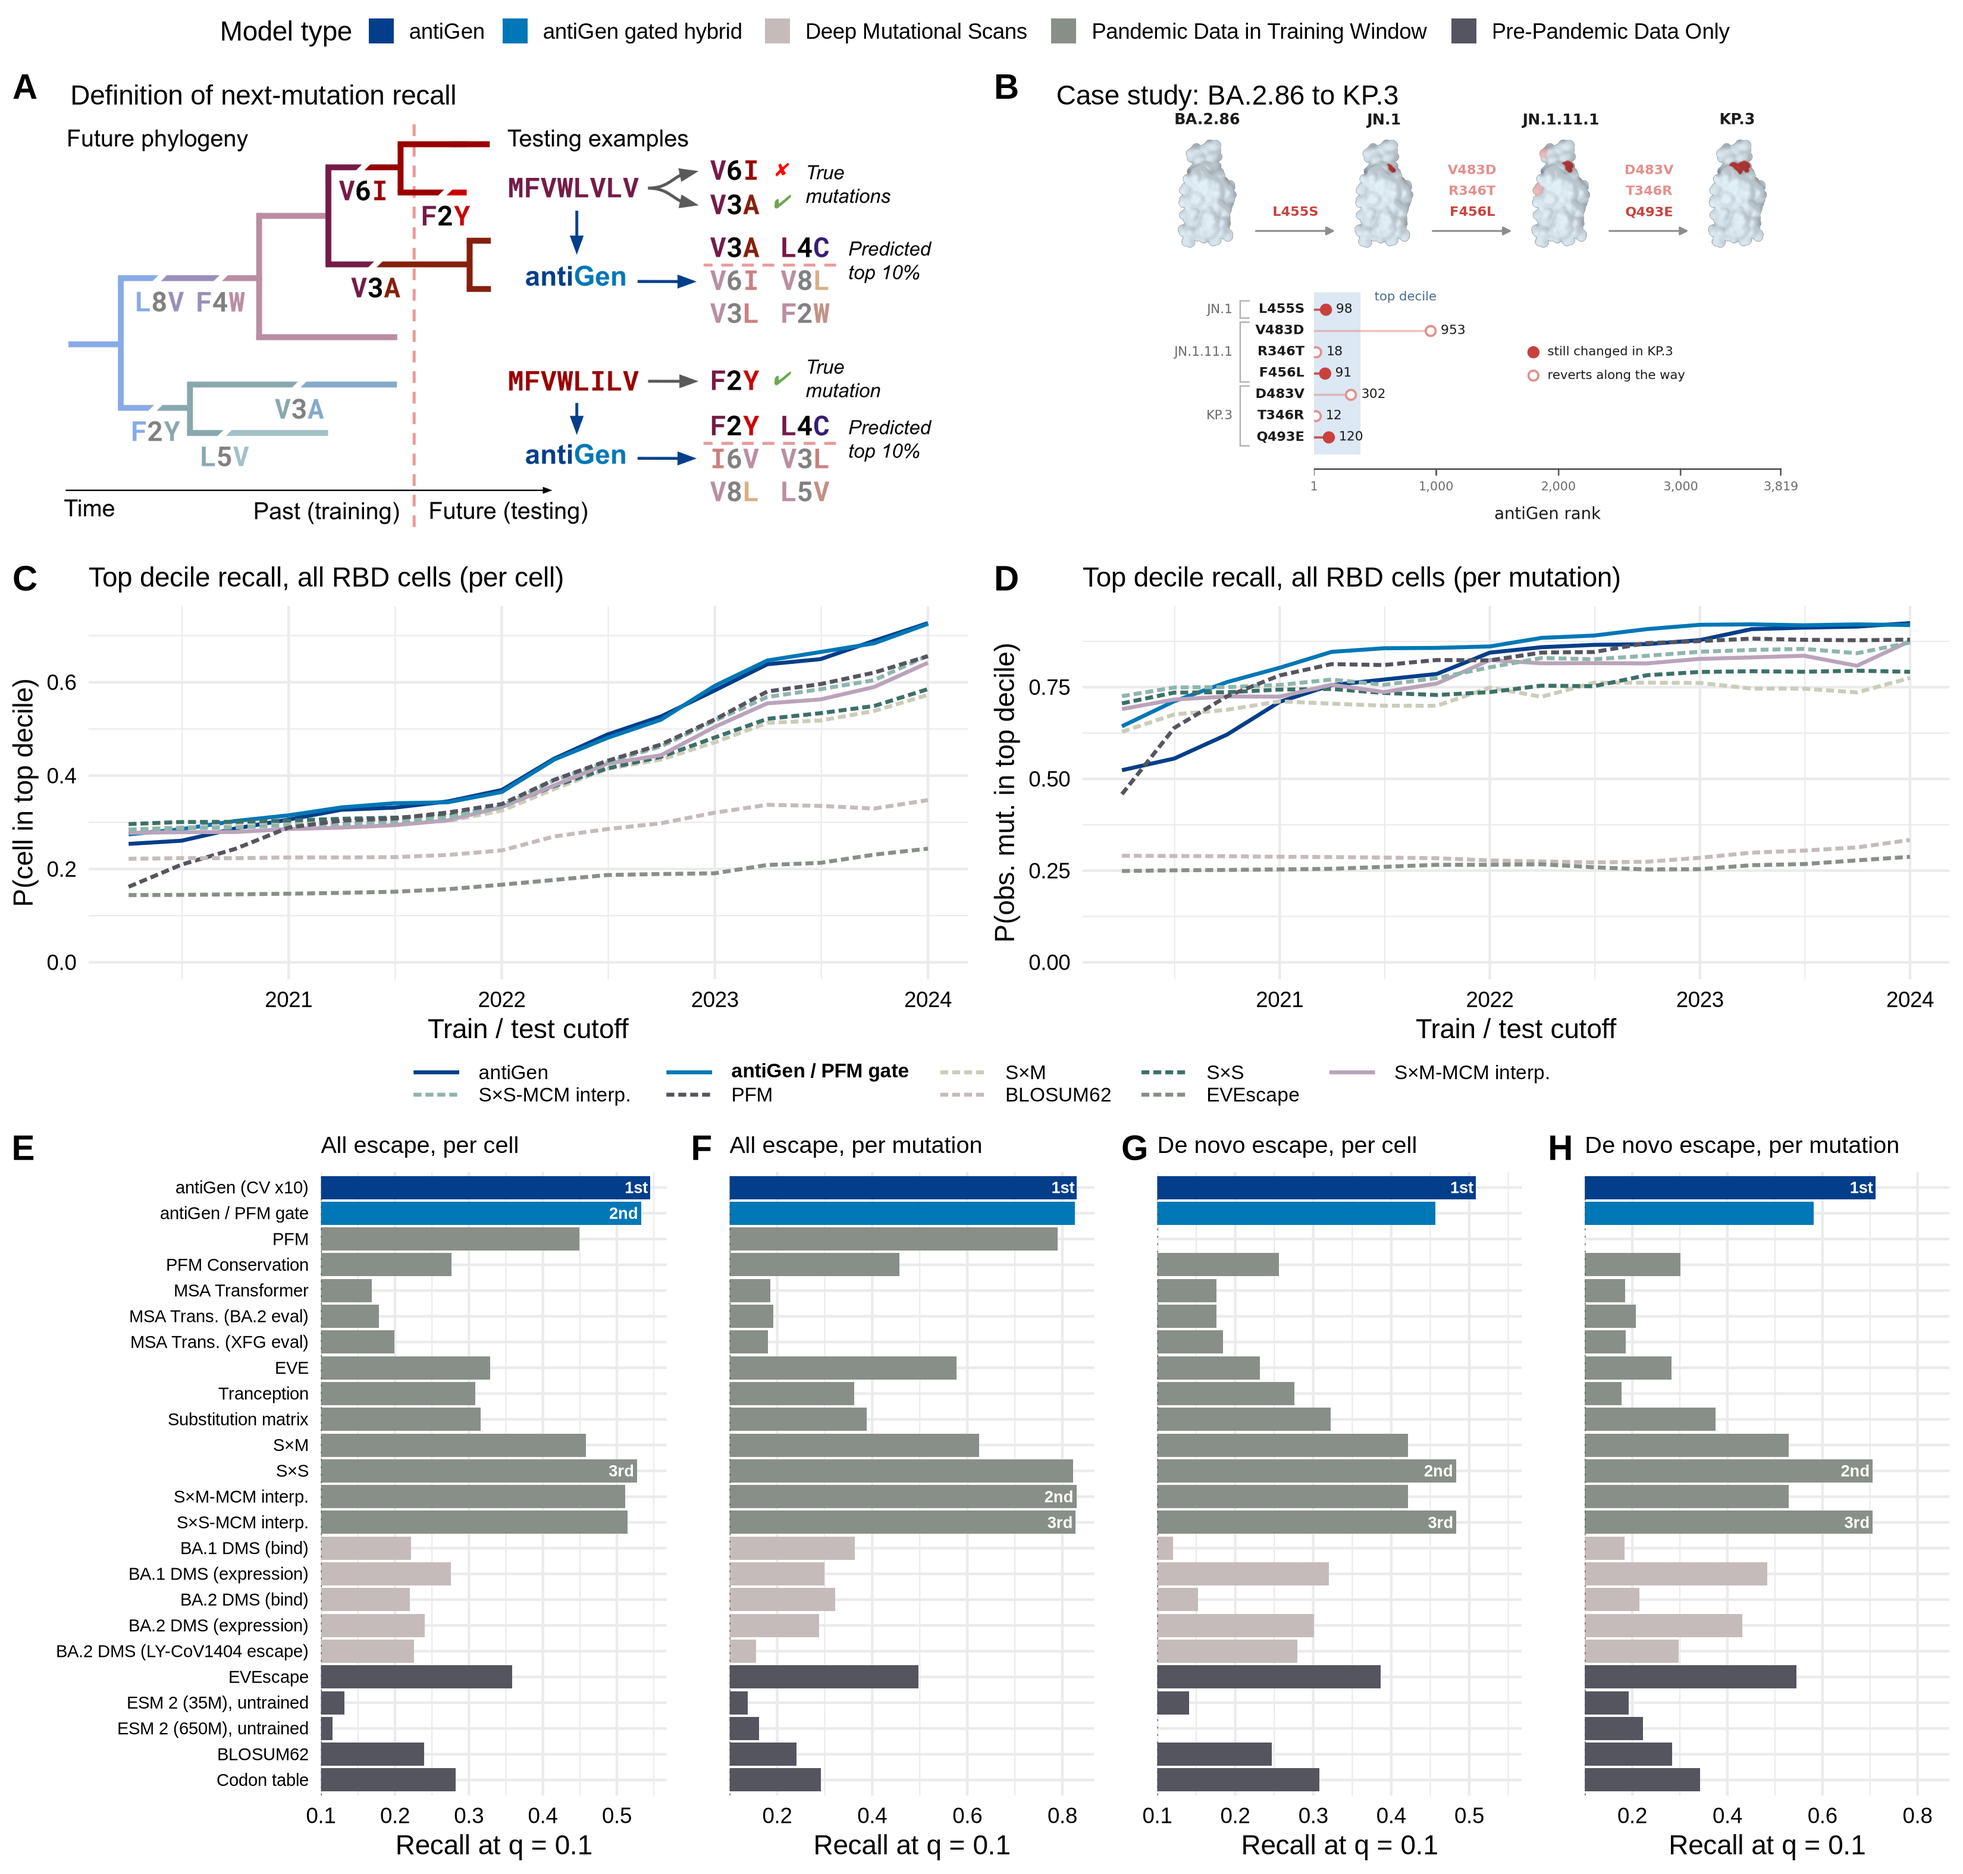
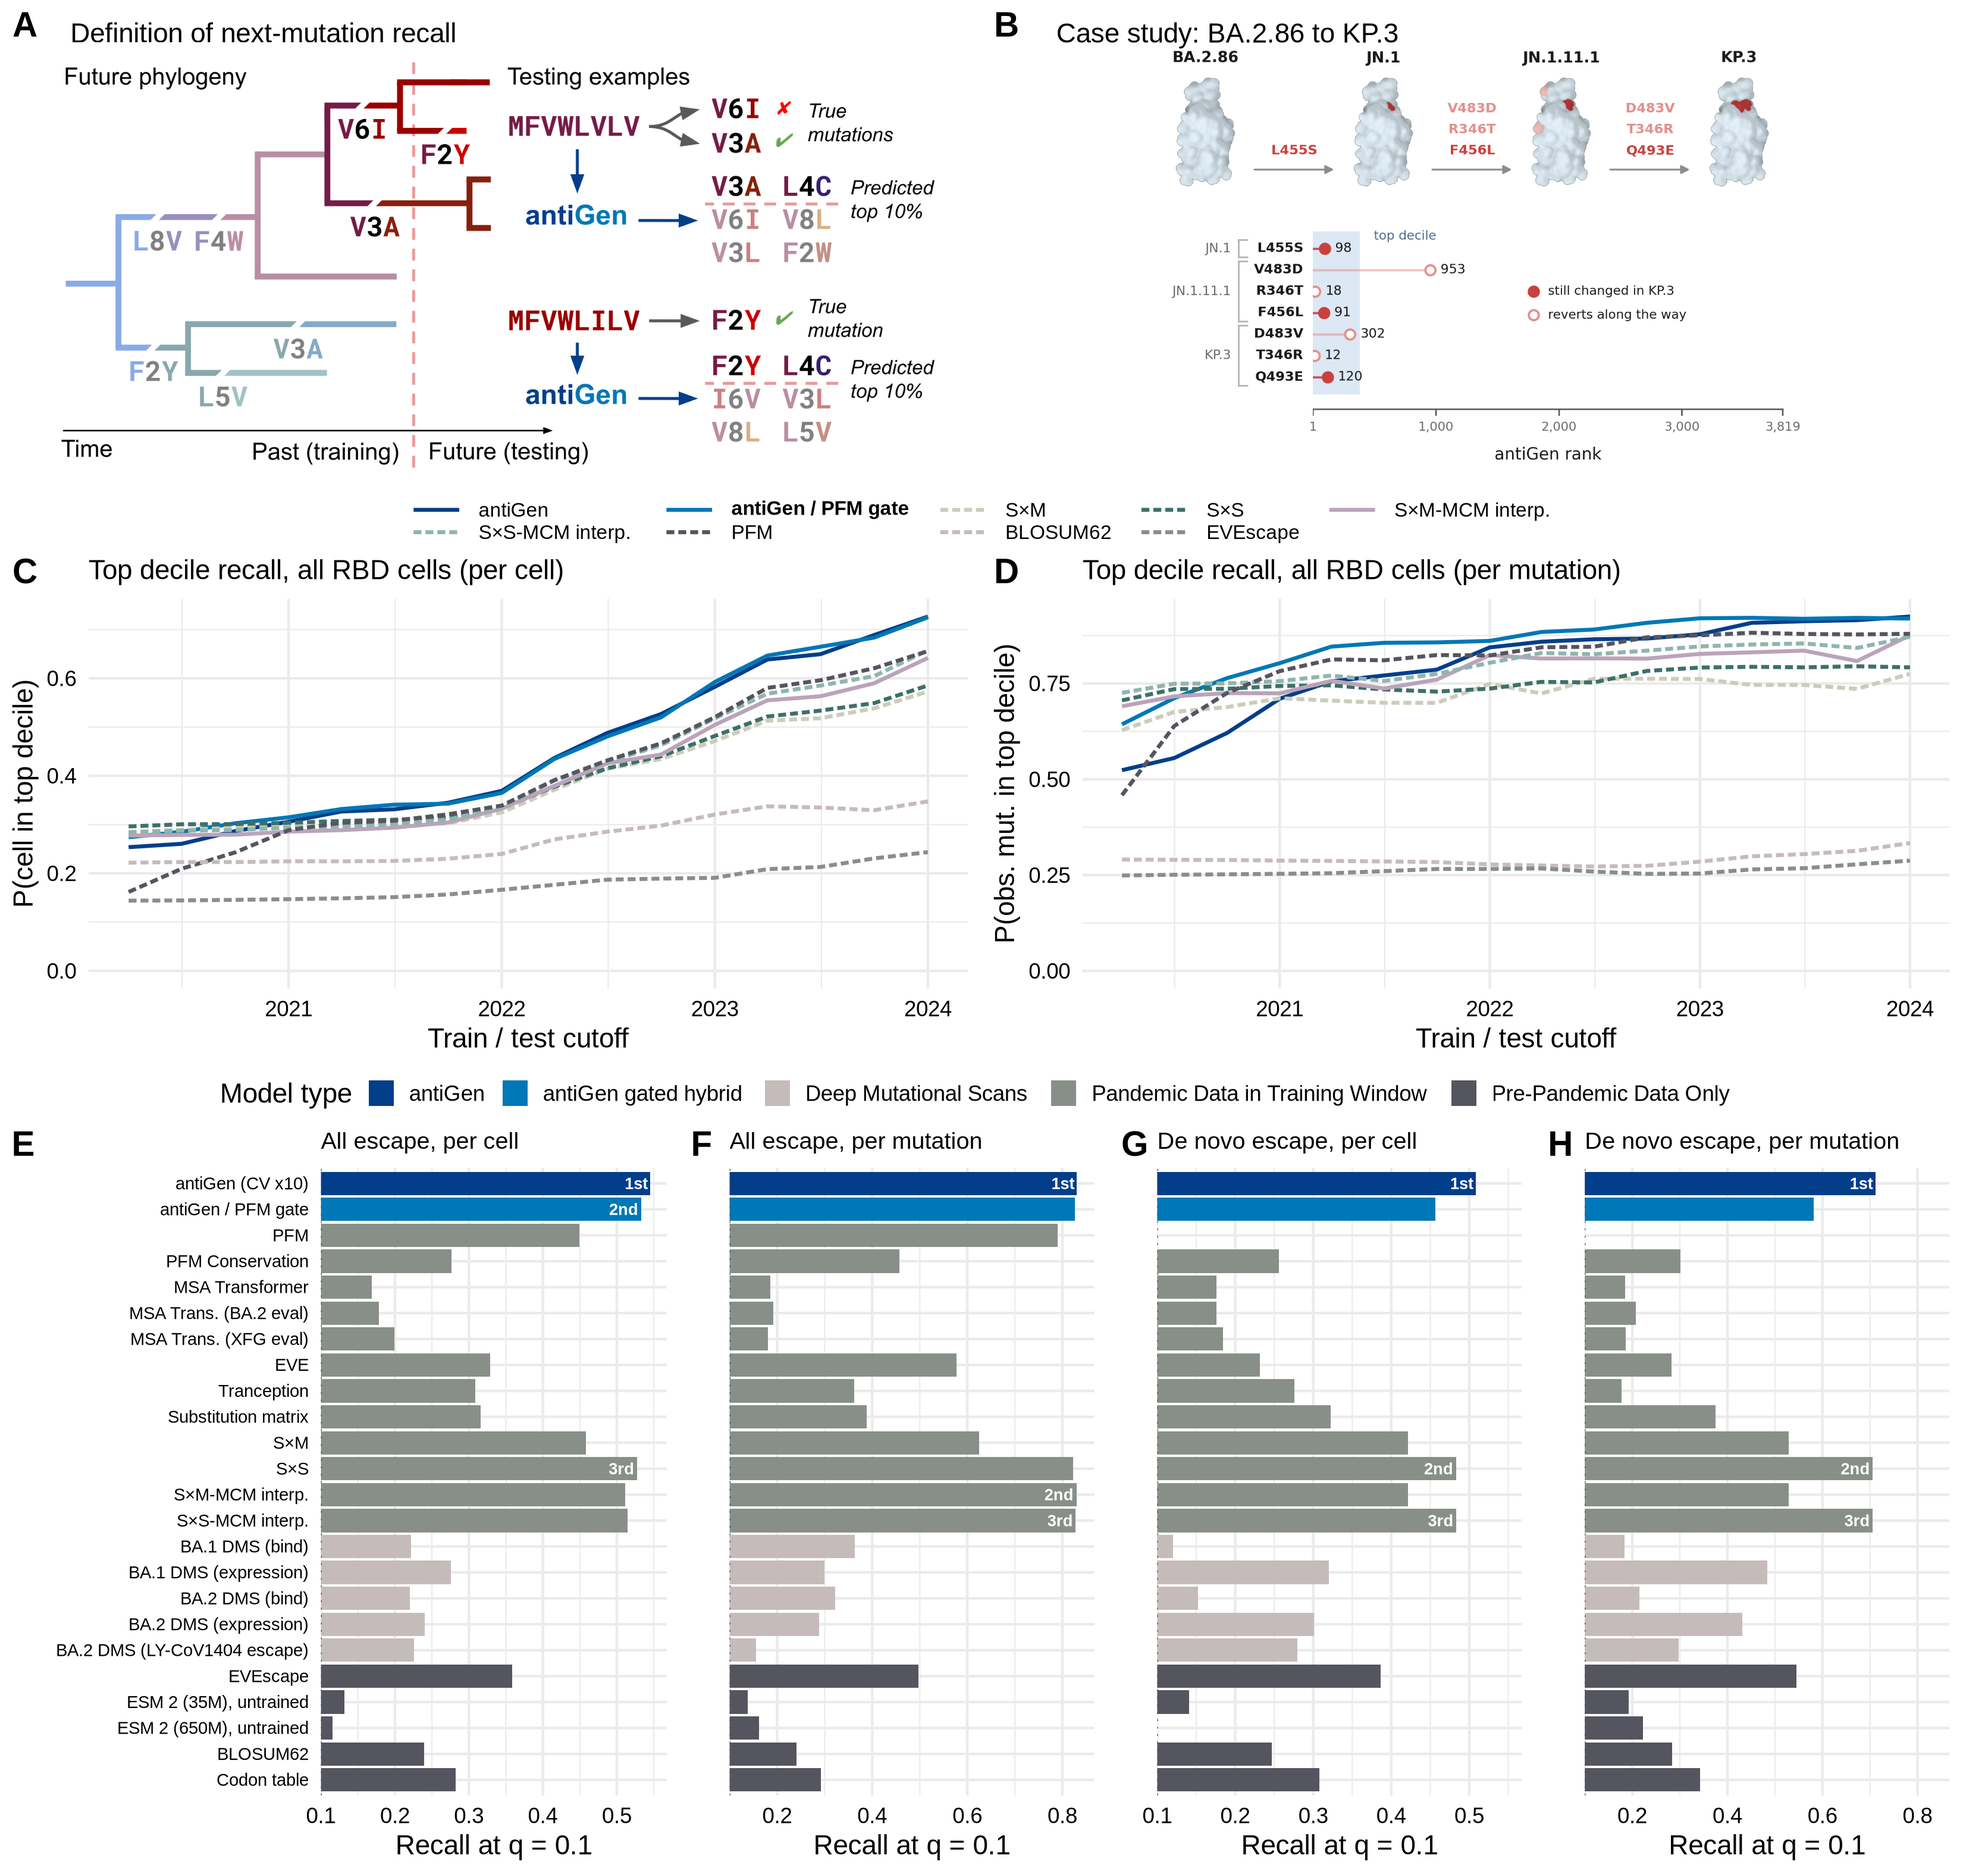
revised2: C/D key above C/D, model-type key above E-H
NOTES s118.

diff --git a/experiments/multitree/NOTES.md b/experiments/multitree/NOTES.md
@@ -12450,3 +12450,15 @@ Three details:
   and `element_text` do not merge, so the key text is blanked first and then set.
 * **Size.** The canvas is 10.5 in tall (was 10). Row 2 gets 1.1 of the height and a small
   spacer keeps the strip off the E-H titles.
+
+## 118. sc2_results_revised2: each key above the row it serves (2026-11-08)
+
+The two keys now sit directly above the panels they describe:
+
+* The C/D line key (s117) moved from under the two panels to above them.
+* The model-type key moved from the head of the figure to above E-H, the only panels
+  it colours.
+
+Each row is now a `plot_grid` of key and panels, with rel_heights `c(0.1, 1)` for row 2
+and `c(0.1, 1.45)` for row 3. The figure's rel_heights are `c(0.95, 1.1, 1.55)`, and the
+canvas is unchanged at 11 x 10.5 in.
